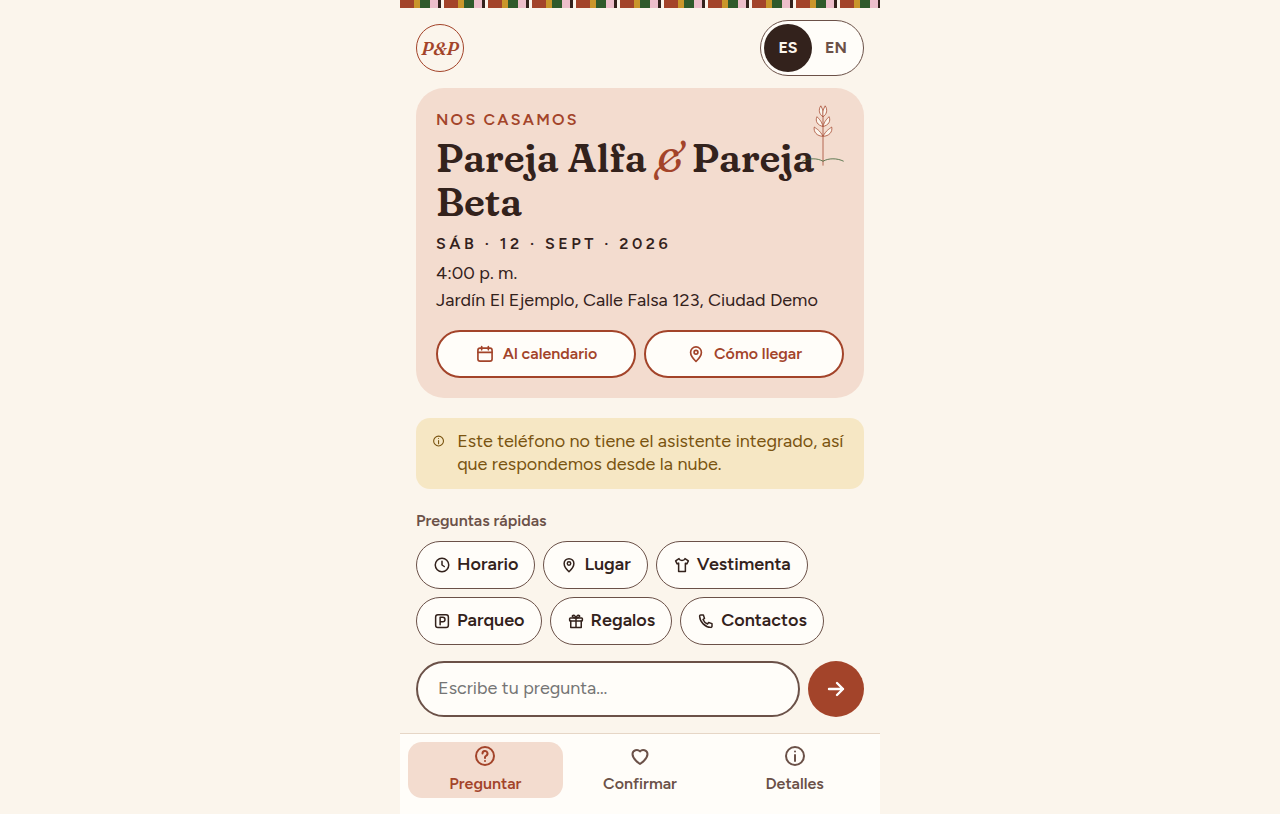
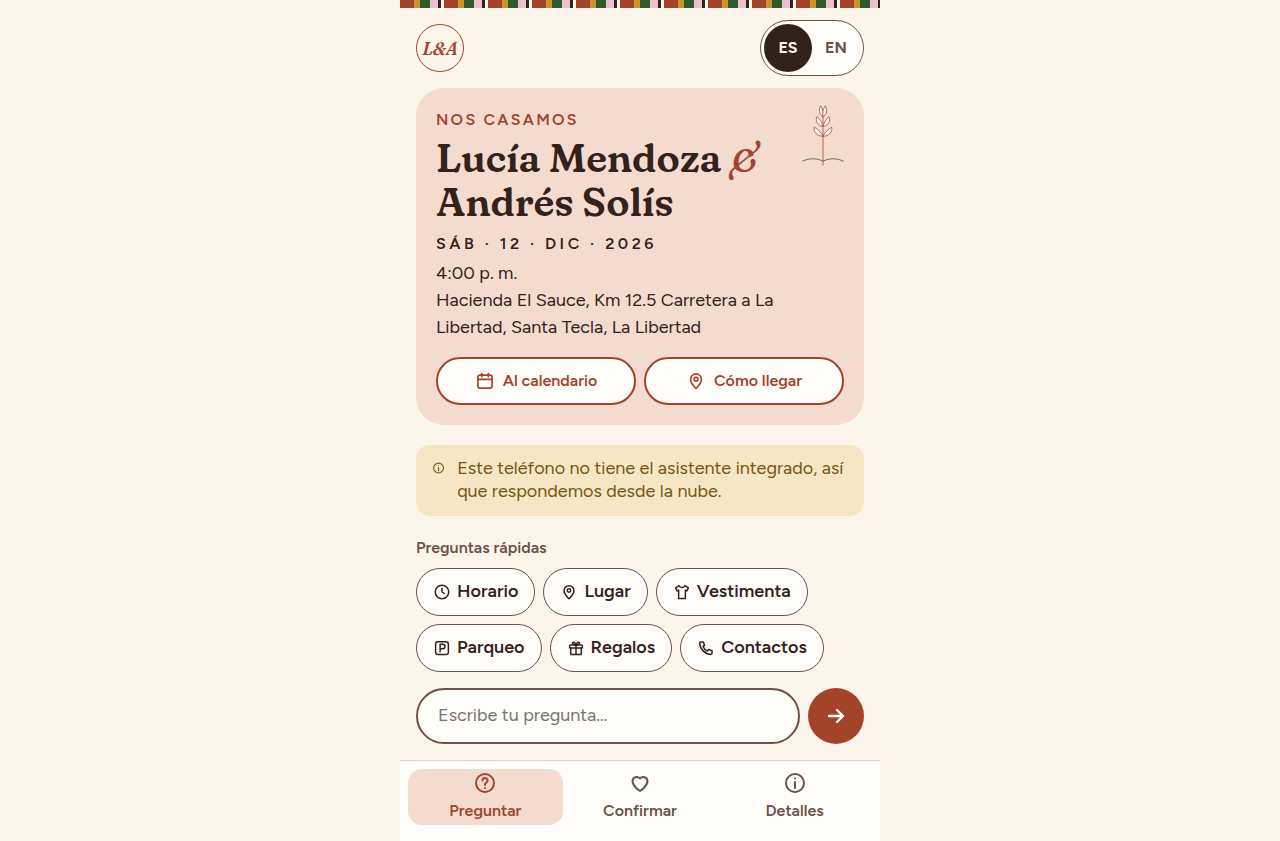
test: expect the data-pack wedding sheet
Load data/wedding_info.json in the guest view and refresh the screenshots.

Changed region(s): [[0.3125, 0.0, 0.6875, 0.9828], [0.3125, 0.0307, 0.375, 0.0921], [0.4688, 0.9521, 0.5312, 0.9828]]

diff --git a/e2e/smoke.spec.ts b/e2e/smoke.spec.ts
@@ -10,15 +10,15 @@ test.beforeEach(async ({ page }) => {
 test('guest mobile screenshot', async ({ page }) => {
   await page.setViewportSize({ width: 390, height: 844 });
   await page.goto('/');
-  await expect(page.getByRole('heading', { level: 1 })).toContainText('Pareja Alfa');
-  await expect(page.getByText('Jardín El Ejemplo')).toBeVisible();
+  await expect(page.getByRole('heading', { level: 1 })).toContainText('Lucía Mendoza');
+  await expect(page.getByText('Hacienda El Sauce')).toBeVisible();
   await page.screenshot({ path: 'docs/screenshots/guest-mobile.png', fullPage: true });
 });
 
 test('guest desktop screenshot', async ({ page }) => {
   await page.setViewportSize({ width: 1280, height: 800 });
   await page.goto('/');
-  await expect(page.getByRole('heading', { level: 1 })).toContainText('Pareja Alfa');
+  await expect(page.getByRole('heading', { level: 1 })).toContainText('Lucía Mendoza');
   await page.screenshot({ path: 'docs/screenshots/guest-desktop.png', fullPage: true });
 });
 
@@ -39,7 +39,7 @@ test('admin desktop screenshot', async ({ page }) => {
 
 test('guest question reaches an error without Firebase config', async ({ page }) => {
   await page.goto('/');
-  await expect(page.getByRole('heading', { level: 1 })).toContainText('Pareja Alfa');
+  await expect(page.getByRole('heading', { level: 1 })).toContainText('Lucía Mendoza');
   await page.getByLabel('Tu pregunta').fill('¿A qué hora es la ceremonia?');
   await page.getByRole('button', { name: 'Enviar' }).click();
   await expect(page.getByRole('alert')).toContainText('Firebase');

diff --git a/src/data/loadWeddingInfo.test.ts b/src/data/loadWeddingInfo.test.ts
@@ -6,6 +6,7 @@ import {
   PACK_SHEET_PATH,
   activeSheetOrigin,
   isWeddingInfo,
+  loadBundledWeddingInfo,
   loadFromLoaders,
   resolveWeddingInfo,
 } from './loadWeddingInfo';
@@ -56,6 +57,17 @@ describe('wedding info loader', () => {
       ),
     ).resolves.toBe(sheet);
     expect(isWeddingInfo(sheet)).toBe(true);
+  });
+
+  it('returns the data-pack sheet when data/wedding_info.json is present', async () => {
+    expect(activeSheetOrigin()).toBe('pack');
+    const loaded = await loadBundledWeddingInfo();
+    expect(loaded.venue.name).toBe('Hacienda El Sauce');
+    expect(loaded.couple.bride).toEqual({ first_name: 'Lucía', last_name: 'Mendoza' });
+    expect(loaded.couple.groom).toEqual({ first_name: 'Andrés', last_name: 'Solís' });
+    expect(loaded.date).toBe('2026-12-12');
+    expect(loaded.venue.name).not.toBe(sheet.venue.name);
+    expect(loaded.synthetic).toBe(true);
   });
 
   it('uses a valid cached sheet offline and refreshes it online', async () => {

diff --git a/src/pages/GuestPage.test.tsx b/src/pages/GuestPage.test.tsx
@@ -26,10 +26,10 @@ describe('GuestPage', () => {
 
     expect(await screen.findByRole('heading', { level: 1 })).toHaveProperty(
       'textContent',
-      expect.stringContaining('Pareja Alfa'),
+      expect.stringContaining('Lucía Mendoza'),
     );
-    expect(screen.getByText(/Jardín El Ejemplo/)).toBeTruthy();
-    expect(screen.queryByText(/Hacienda El Sauce/)).toBeNull();
+    expect(screen.getByText(/Hacienda El Sauce/)).toBeTruthy();
+    expect(screen.queryByText(/Jardín El Ejemplo/)).toBeNull();
     await user.type(screen.getByLabelText('Tu pregunta'), '¿A qué hora es la ceremonia?');
     await user.click(screen.getByRole('button', { name: 'Enviar' }));
     expect(await screen.findByText('Buscando en la información de la boda…')).toBeTruthy();
